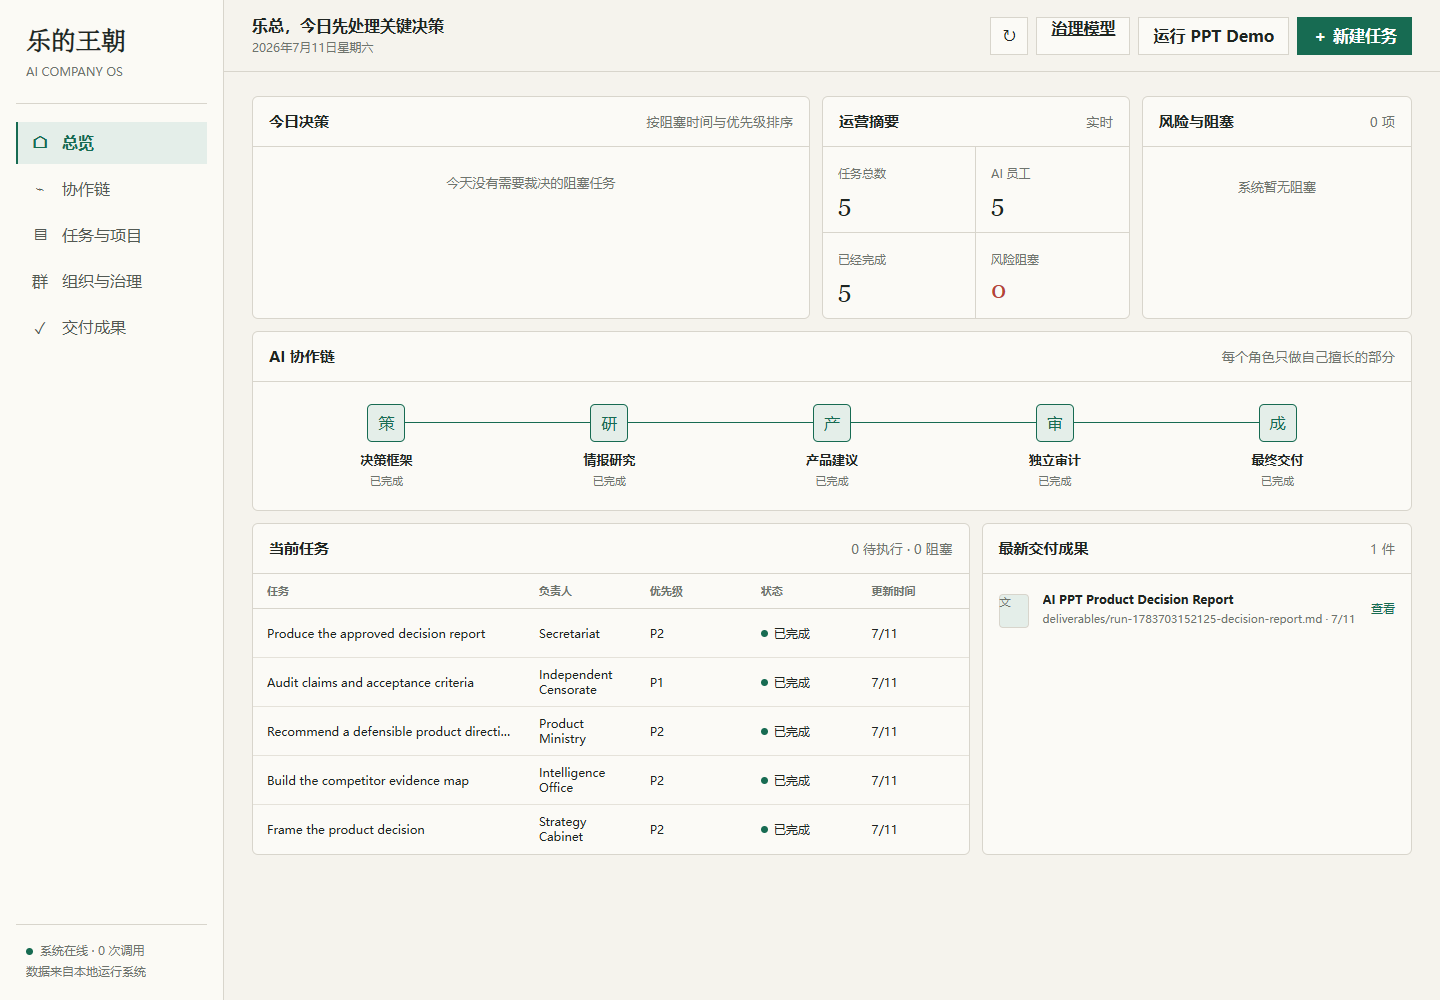
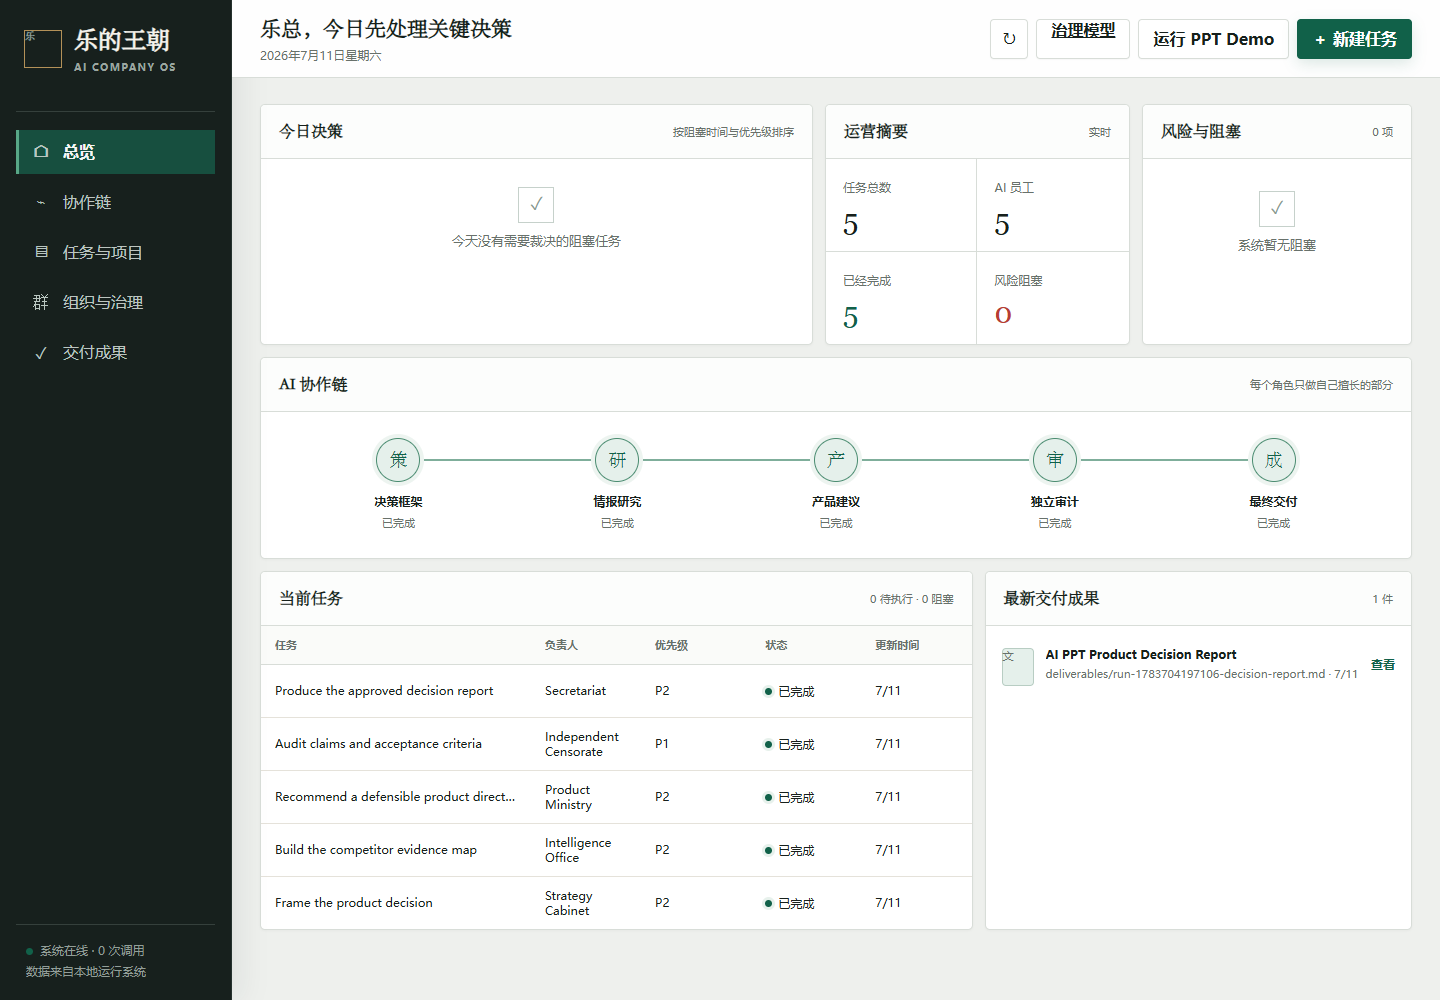
Elevate the founder dashboard visual system

diff --git a/index.html b/index.html
@@ -157,12 +157,96 @@
       .mobile-nav a { display: grid; place-items: center; align-content: center; gap: 4px; color: var(--muted); text-decoration: none; font-size: 11px; }
       .mobile-nav a.active { color: var(--jade); }
     }
+    /* Founder-grade visual layer */
+    :root {
+      --paper: #eef0ed;
+      --surface: #ffffff;
+      --surface-2: #f3f5f2;
+      --ink: #17201c;
+      --muted: #68716b;
+      --line: #d8ddd8;
+      --jade: #116149;
+      --jade-soft: #e5f0eb;
+      --cinnabar: #b83d34;
+      --cinnabar-soft: #f8e9e7;
+      --amber: #9b6a24;
+      --amber-soft: #f5eddf;
+      --sidebar: 232px;
+    }
+    body { background: var(--paper); }
+    .sidebar {
+      color: #e7ebe8;
+      border-right-color: #26322e;
+      background: #17201d;
+      box-shadow: 8px 0 28px rgba(19, 29, 25, .08);
+    }
+    .brand { position: relative; min-height: 88px; padding: 2px 8px 22px 58px; border-bottom-color: #35403c; }
+    .brand-seal {
+      position: absolute; left: 8px; top: 0; width: 38px; height: 38px;
+      display: grid; place-items: center; border: 1px solid #b39158; color: #d7bd88;
+      font-family: "STSong", "SimSun", serif; font-size: 20px; line-height: 1;
+    }
+    .brand strong { color: #f5f3ec; font-size: 24px; line-height: 1.2; }
+    .brand span { color: #9ca6a0; font-size: 10px; font-weight: 700; letter-spacing: 1.4px; }
+    .nav { gap: 6px; }
+    .nav a { min-height: 44px; color: #bdc5c0; border-left-width: 3px; }
+    .nav a:hover { color: white; background: #202b27; }
+    .nav a.active { color: #f5f7f5; background: #174f3f; border-left-color: #58a786; }
+    .nav-icon { color: #b9c6c0; font-family: Georgia, serif; }
+    .sidebar-foot { color: #929e98; border-top-color: #35403c; }
+    .topbar { height: 78px; border-bottom-color: var(--line); background: rgba(255,255,255,.96); }
+    .greeting strong { font-family: "STSong", "SimSun", serif; font-size: 21px; font-weight: 700; }
+    .greeting span { margin-top: 6px; }
+    .icon-btn, .btn { min-height: 40px; border-radius: 4px; background: #fff; box-shadow: 0 1px 1px rgba(23,32,28,.03); }
+    .btn.primary { box-shadow: 0 5px 14px rgba(17,97,73,.14); }
+    .content { padding-top: 26px; }
+    .panel { border-color: var(--line); border-radius: 5px; box-shadow: 0 1px 2px rgba(23,32,28,.035); }
+    .panel-head { min-height: 54px; padding-inline: 18px; background: #fcfdfc; }
+    .panel-head h3 { font-family: "STSong", "SimSun", serif; font-size: 16px; }
+    .panel-head small { font-size: 11px; }
+    .decision-list { padding-inline: 18px; }
+    .decision { min-height: 68px; }
+    .decision-index { background: var(--cinnabar); box-shadow: 0 3px 8px rgba(184,61,52,.14); }
+    .metric { min-height: 86px; padding: 17px; }
+    .metric strong { margin-top: 9px; font-size: 29px; line-height: 1; }
+    .metric:nth-child(3) strong { color: var(--jade); }
+    .risk-panel .empty::before, .decision-list > .empty::before {
+      content: "✓"; display: block; width: 34px; height: 34px; margin: 0 auto 10px;
+      border: 1px solid #c6d1cb; color: #8b9b93; font-size: 18px; line-height: 32px;
+    }
+    .flow-panel { padding-bottom: 22px; }
+    .flow { padding: 26px 28px 6px; }
+    .flow-step:not(:last-child)::after { top: 21px; height: 2px; background: #d2d8d4; }
+    .flow-step.done:not(:last-child)::after { background: #7fae9b; }
+    .flow-icon {
+      width: 44px; height: 44px; margin-bottom: 12px; border-radius: 50%;
+      color: #77827c; font-family: "STSong", "SimSun", serif; font-size: 18px;
+    }
+    .flow-step.done .flow-icon { border-color: #4c8d72; box-shadow: 0 0 0 4px #edf4f0; }
+    .flow-step strong { font-size: 12px; }
+    .flow-step span { margin-top: 7px; }
+    th { height: 38px; background: #fafbf9; font-weight: 700; }
+    td { height: 53px; }
+    tbody tr:hover { background: #f8faf8; }
+    .status::before { box-shadow: 0 0 0 3px #e7f1ec; }
+    .file-icon { width: 32px; height: 38px; border-color: #b8cdc3; }
+    .deliverable { min-height: 68px; }
+    .deliverable a { font-weight: 700; }
+    .mobile-nav { box-shadow: 0 -6px 24px rgba(23,32,28,.08); }
+    @media (max-width: 760px) {
+      .topbar { height: 66px; background: #fff; }
+      .top-actions { width: 100%; display: grid; grid-template-columns: 40px 1fr 1fr; }
+      .top-actions .btn { min-width: 0; padding-inline: 8px; overflow: hidden; text-overflow: ellipsis; }
+      .content { padding-top: 12px; }
+      .panel-head { min-height: 50px; }
+      .flow { padding-top: 22px; }
+    }
   </style>
 </head>
 <body>
   <div class="shell">
     <aside class="sidebar">
-      <div class="brand"><strong>乐的王朝</strong><span>AI COMPANY OS</span></div>
+      <div class="brand"><span class="brand-seal" aria-hidden="true">乐</span><strong>乐的王朝</strong><span>AI COMPANY OS</span></div>
       <nav class="nav" aria-label="主导航">
         <a class="active" href="dynasty-os.html"><span class="nav-icon">⌂</span>总览</a>
         <a href="#flow"><span class="nav-icon">⌁</span>协作链</a>
